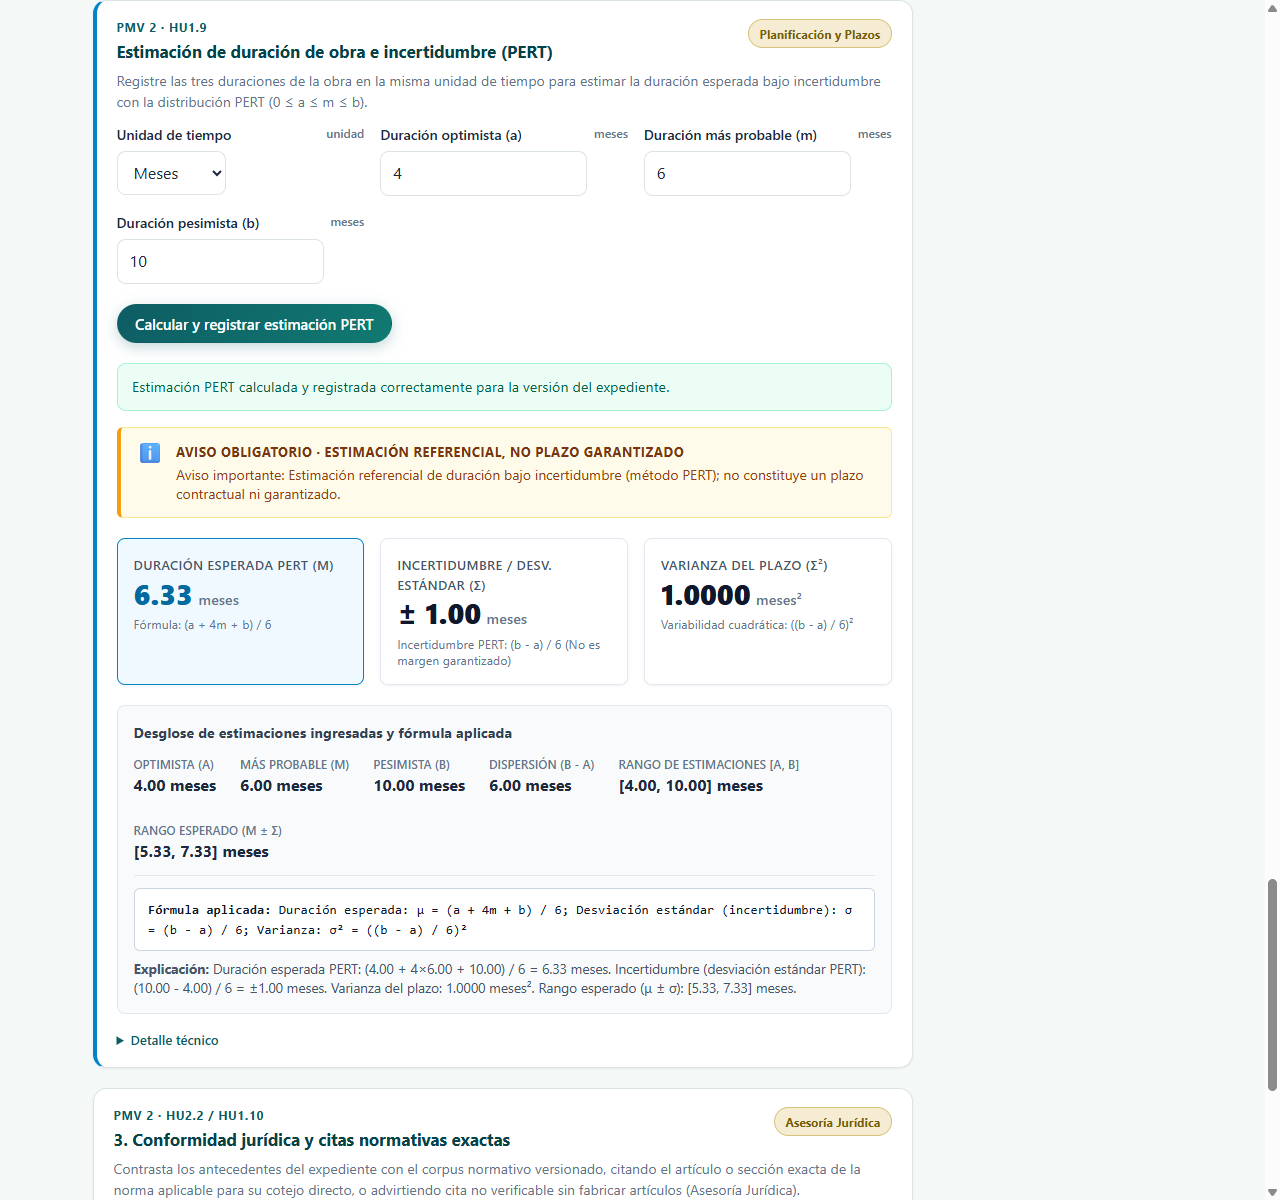
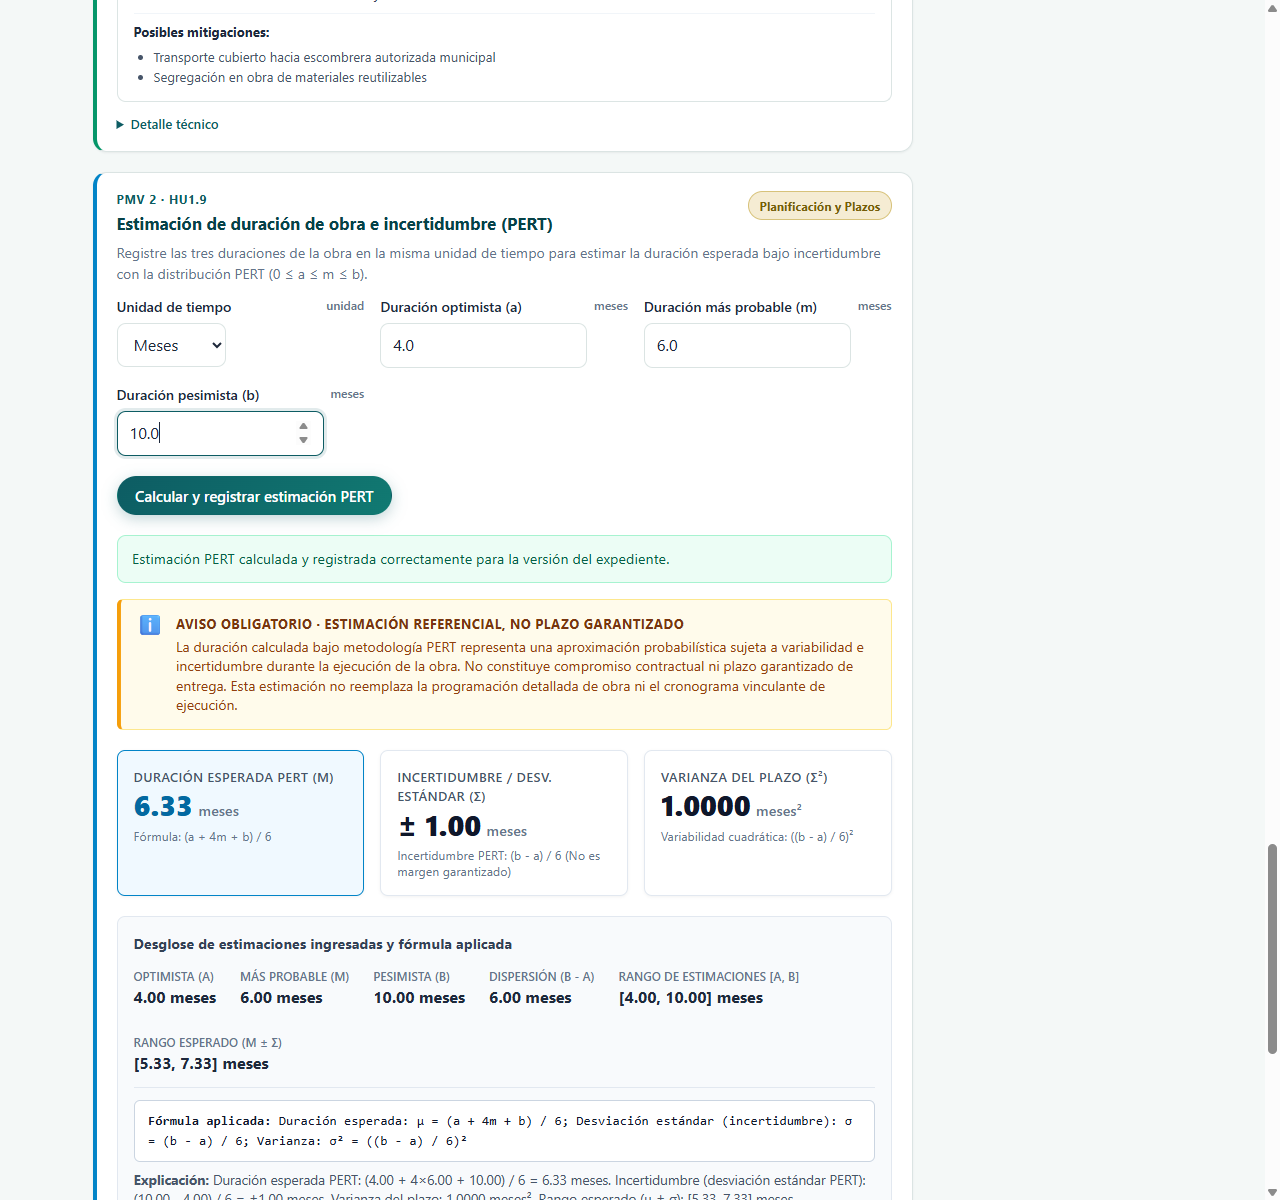
fix(plazos): validar pertenencia de version y ocultar resultados al editar en HU1.9

diff --git a/frontend/src/features/proyecto/ProyectoDetallePage.tsx b/frontend/src/features/proyecto/ProyectoDetallePage.tsx
@@ -1297,7 +1297,12 @@ export function ProyectoDetallePage() {
                       id="pert-unit"
                       className="form-field-input"
                       value={pertTimeUnit}
-                      onChange={(e) => setPertTimeUnit(e.target.value)}
+                      onChange={(e) => {
+                      setPertTimeUnit(e.target.value)
+                      setPertEstimate(null)
+                      setPertSuccess(null)
+                      setPertError(null)
+                    }}
                     >
                       <option value="meses">Meses</option>
                       <option value="días">Días</option>
@@ -1320,7 +1325,9 @@ export function ProyectoDetallePage() {
                       value={pertInputA}
                       onChange={(e) => {
                         setPertInputA(e.target.value)
+                        setPertEstimate(null)
                         setPertSuccess(null)
+                        setPertError(null)
                       }}
                     />
                   </div>
@@ -1340,7 +1347,9 @@ export function ProyectoDetallePage() {
                       value={pertInputM}
                       onChange={(e) => {
                         setPertInputM(e.target.value)
+                        setPertEstimate(null)
                         setPertSuccess(null)
+                        setPertError(null)
                       }}
                     />
                   </div>
@@ -1360,7 +1369,9 @@ export function ProyectoDetallePage() {
                       value={pertInputB}
                       onChange={(e) => {
                         setPertInputB(e.target.value)
+                        setPertEstimate(null)
                         setPertSuccess(null)
+                        setPertError(null)
                       }}
                     />
                   </div>
@@ -1407,7 +1418,11 @@ export function ProyectoDetallePage() {
               </div>
             )}
 
-            {pertSuccess && <Alert variant="success">{pertSuccess}</Alert>}
+            {pertSuccess && (
+              <div className="pert-success-alert">
+                <Alert variant="success">{pertSuccess}</Alert>
+              </div>
+            )}
 
             {pertEstimate && !pertError && (
               <div className="pert-result-container">

diff --git a/backend/tests/test_pert_duration_service.py b/backend/tests/test_pert_duration_service.py
@@ -10,6 +10,7 @@ from backend.application.services.pmv1_services import (
     PlatformService,
 )
 from backend.domain.exceptions.pmv1_exceptions import (
+    VersionNoPertenecienteError,
     EstimacionPERTInvalidaError,
     RecursoPMV1NoEncontradoError,
 )
@@ -294,3 +295,126 @@ def test_pert_invalid_submission_does_not_return_valid_previous():
                 "time_unit": "meses",
             },
         )
+
+# 10. Rechazo estricto de versión ajena sin mutar ninguno de los expedientes
+def test_pert_alien_version_rejected_without_modifications():
+    """Comprueba que pasar un project_version_id que pertenece a otro proyecto
+    es rechazado con VersionNoPertenecienteError, y ninguna tabla/estimación de
+    ninguno de los dos proyectos es insertada ni modificada."""
+    db_url = get_test_db_url()
+    service = get_test_platform_service()
+
+    proj1_id = uuid4()
+    v1_id = uuid4()
+    proj2_id = uuid4()
+    v2_id = uuid4()
+
+    with psycopg.connect(db_url, row_factory=dict_row) as conn:
+        # Proyecto 1 y versión 1
+        conn.execute(
+            """INSERT INTO projects (id, code, created_by_user_id, status)
+            VALUES (%s, %s, %s, 'ready')""",
+            (proj1_id, f"PRY-P1-{uuid4().hex[:6]}", PLANNER_ID),
+        )
+        conn.execute(
+            """INSERT INTO project_versions (id, project_id, version_number, title,
+            description, location_description, proposed_land_use, estimated_budget_pen,
+            beneficiaries_count, created_by_user_id)
+            VALUES (%s, %s, 1, 'Proyecto 1 v1', 'Desc 1', 'El Tambo', 'recreacion', 100000, 500, %s)""",
+            (v1_id, proj1_id, PLANNER_ID),
+        )
+
+        # Proyecto 2 y versión 2
+        conn.execute(
+            """INSERT INTO projects (id, code, created_by_user_id, status)
+            VALUES (%s, %s, %s, 'ready')""",
+            (proj2_id, f"PRY-P2-{uuid4().hex[:6]}", PLANNER_ID),
+        )
+        conn.execute(
+            """INSERT INTO project_versions (id, project_id, version_number, title,
+            description, location_description, proposed_land_use, estimated_budget_pen,
+            beneficiaries_count, created_by_user_id)
+            VALUES (%s, %s, 1, 'Proyecto 2 v2', 'Desc 2', 'El Tambo', 'recreacion', 200000, 800, %s)""",
+            (v2_id, proj2_id, PLANNER_ID),
+        )
+
+    # Registrar estimación legítima en Proyecto 1: a=4, m=6, b=10 (μ=6.3333)
+    reg_p1 = service.register_pert_estimate(
+        project_id=proj1_id,
+        actor_id=PLANNER_ID,
+        data={
+            "project_version_id": v1_id,
+            "optimistic_duration": "4.0",
+            "most_likely_duration": "6.0",
+            "pessimistic_duration": "10.0",
+            "time_unit": "meses",
+        },
+    )
+    assert float(reg_p1["expected_duration"]) == pytest.approx(6.3333, abs=0.001)
+
+    # Registrar estimación legítima en Proyecto 2: a=5, m=10, b=15 (μ=10.0)
+    reg_p2 = service.register_pert_estimate(
+        project_id=proj2_id,
+        actor_id=PLANNER_ID,
+        data={
+            "project_version_id": v2_id,
+            "optimistic_duration": "5.0",
+            "most_likely_duration": "10.0",
+            "pessimistic_duration": "15.0",
+            "time_unit": "meses",
+        },
+    )
+    assert float(reg_p2["expected_duration"]) == 10.0
+
+    # INTENTO FRAUDULENTO: Registrar en Proyecto 1 pero pasando la versión 2 (de Proyecto 2)
+    with pytest.raises(VersionNoPertenecienteError) as exc_info:
+        service.register_pert_estimate(
+            project_id=proj1_id,
+            actor_id=PLANNER_ID,
+            data={
+                "project_version_id": v2_id,  # Pertenece a Proyecto 2!
+                "optimistic_duration": "1.0",
+                "most_likely_duration": "2.0",
+                "pessimistic_duration": "3.0",
+                "time_unit": "meses",
+            },
+        )
+    assert str(v2_id) in str(exc_info.value)
+    assert str(proj1_id) in str(exc_info.value)
+
+    # COMPROBAR AUSENCIA DE CAMBIOS:
+    # 1. Proyecto 1 sigue teniendo exactamente su estimación v1 intacta
+    check_p1 = service.get_pert_estimate(proj1_id, project_version_id=v1_id)
+    assert check_p1 is not None
+    assert float(check_p1["expected_duration"]) == pytest.approx(6.3333, abs=0.001)
+    assert float(check_p1["optimistic_duration"]) == 4.0
+
+    # 2. Proyecto 2 sigue teniendo exactamente su estimación v2 intacta (no fue sobreescrita ni alterada)
+    check_p2 = service.get_pert_estimate(proj2_id, project_version_id=v2_id)
+    assert check_p2 is not None
+    assert float(check_p2["expected_duration"]) == 10.0
+    assert float(check_p2["optimistic_duration"]) == 5.0
+
+    # 3. No existe ninguna estimación huérfana o cruzada en la base de datos
+    with psycopg.connect(db_url, row_factory=dict_row) as conn:
+        rows = conn.execute(
+            """SELECT project_id, project_version_id, expected_duration
+            FROM project_pert_estimates
+            WHERE project_id IN (%s, %s)""",
+            (proj1_id, proj2_id),
+        ).fetchall()
+        assert len(rows) == 2
+        for r in rows:
+            if r["project_id"] == proj1_id:
+                assert r["project_version_id"] == v1_id
+            elif r["project_id"] == proj2_id:
+                assert r["project_version_id"] == v2_id
+
+
+# 11. get_pert_estimate con versión ajena es rechazado
+def test_pert_get_alien_version_rejected():
+    service = get_test_platform_service()
+    alien_version = uuid4()
+    with pytest.raises(VersionNoPertenecienteError) as exc_info:
+        service.get_pert_estimate(PROJECT_A_ID, project_version_id=alien_version)
+    assert str(alien_version) in str(exc_info.value)

diff --git a/backend/tests/test_pmv1_official_api.py b/backend/tests/test_pmv1_official_api.py
@@ -809,6 +809,13 @@ class FakePlatform:
     def get_pert_estimate(
         self, project_id: UUID, project_version_id: UUID | None = None
     ) -> dict[str, Any] | None:
+        if project_version_id and str(project_version_id) != str(VERSION_ID):
+            from backend.domain.exceptions.pmv1_exceptions import VersionNoPertenecienteError
+            raise VersionNoPertenecienteError(
+                f"La versión {project_version_id} no pertenece al expediente {project_id}.",
+                project_id=str(project_id),
+                version_id=str(project_version_id),
+            )
         if str(project_id).endswith("b"):
             return None
         return {
@@ -835,6 +842,14 @@ class FakePlatform:
     def register_pert_estimate(
         self, project_id: UUID, actor_id: UUID, data: Any
     ) -> dict[str, Any]:
+        req_ver = getattr(data, "project_version_id", None) if not isinstance(data, dict) else data.get("project_version_id")
+        if req_ver and str(req_ver) != str(VERSION_ID):
+            from backend.domain.exceptions.pmv1_exceptions import VersionNoPertenecienteError
+            raise VersionNoPertenecienteError(
+                f"La versión {req_ver} no pertenece al expediente {project_id}.",
+                project_id=str(project_id),
+                version_id=str(req_ver),
+            )
         opt = data.optimistic_duration if hasattr(data, "optimistic_duration") else data["optimistic_duration"]
         ml = data.most_likely_duration if hasattr(data, "most_likely_duration") else data["most_likely_duration"]
         pess = data.pessimistic_duration if hasattr(data, "pessimistic_duration") else data["pessimistic_duration"]
@@ -1759,3 +1774,23 @@ def test_pert_estimate_api_forbidden_without_auth(client: TestClient):
         json={"optimistic_duration": "3.0", "most_likely_duration": "5.0", "pessimistic_duration": "8.0"},
     )
     assert resp.status_code == 401
+
+def test_pert_estimate_api_alien_version_rejected_400(client: TestClient):
+    """Rechazo HTTP 400 cuando se envía un project_version_id que no pertenece al proyecto."""
+    headers = {"Authorization": "Bearer token-prueba"}
+    alien_version = uuid4()
+    resp = client.post(
+        f"/api/v1/projects/{PROJECT_ID}/pert-estimate",
+        headers=headers,
+        json={
+            "project_version_id": str(alien_version),
+            "optimistic_duration": "4.0",
+            "most_likely_duration": "6.0",
+            "pessimistic_duration": "10.0",
+            "time_unit": "meses",
+        },
+    )
+    assert resp.status_code == 400
+    data = resp.json()
+    assert "no pertenece al expediente" in data["detail"]
+    assert data["field"] == "project_version_id"

diff --git a/backend/application/services/pmv1_services.py b/backend/application/services/pmv1_services.py
@@ -21,6 +21,7 @@ from psycopg.types.json import Jsonb
 
 from backend.application.dto.pmv1_dto import PMV1ProjectCreate, PertEstimateCreate
 from backend.domain.exceptions.pmv1_exceptions import (
+    VersionNoPertenecienteError,
     ConfiguracionPMV1Error,
     CredencialesInvalidasError,
     EstimacionPERTInvalidaError,
@@ -1043,9 +1044,27 @@ class PlatformService:
     ) -> dict[str, Any] | None:
         """Recupera la estimación de duración PERT para la versión del expediente (HU1.9)."""
         project = self.get_project(project_id)
-        target_version_id = project_version_id or project["project_version_id"]
+        target_version_id = UUID(str(project_version_id)) if project_version_id else project["project_version_id"]
         with psycopg.connect(self.db_url, row_factory=dict_row) as conn:
+            if project_version_id is not None:
+                self._verify_version_belongs_to_project(conn, project_id, target_version_id)
             return self._get_pert_estimate_with_conn(conn, target_version_id)
+
+    def _verify_version_belongs_to_project(
+        self, conn: psycopg.Connection[Any], project_id: UUID, version_id: UUID
+    ) -> None:
+        """Comprueba que project_version_id pertenece a project_id. Lanza VersionNoPertenecienteError si no."""
+        row = conn.execute(
+            "SELECT 1 FROM project_versions WHERE id = %s AND project_id = %s",
+            (version_id, project_id),
+        ).fetchone()
+        if not row:
+            raise VersionNoPertenecienteError(
+                f"La versión {version_id} no pertenece al expediente {project_id}. "
+                "Operación rechazada sin modificar ninguna estimación.",
+                project_id=str(project_id),
+                version_id=str(version_id),
+            )
 
     def register_pert_estimate(
         self,
@@ -1068,7 +1087,7 @@ class PlatformService:
             pess = data.pessimistic_duration
             t_unit = data.time_unit
 
-        version_id = req_version_id or project["project_version_id"]
+        version_id = UUID(str(req_version_id)) if req_version_id else project["project_version_id"]
 
         a, m, b, unit = PertDurationEngine.validate_inputs(
             optimistic=opt,
@@ -1086,6 +1105,7 @@ class PlatformService:
 
         estimate_id = uuid4()
         with psycopg.connect(self.db_url, row_factory=dict_row) as conn, conn.transaction():
+            self._verify_version_belongs_to_project(conn, project_id, version_id)
             row = conn.execute(
                 """
                 INSERT INTO project_pert_estimates

diff --git a/backend/main.py b/backend/main.py
@@ -3,6 +3,7 @@ from fastapi.middleware.cors import CORSMiddleware
 from fastapi.responses import JSONResponse
 
 from backend.domain.exceptions.pmv1_exceptions import (
+    VersionNoPertenecienteError,
     AccesoDenegadoError,
     ConfiguracionPMV1Error,
     CredencialesInvalidasError,
@@ -127,6 +128,22 @@ def create_app() -> FastAPI:
                 "detail": str(exc),
                 "field": exc.campo,
                 "reason": exc.motivo,
+            },
+        )
+
+    
+    @application.exception_handler(VersionNoPertenecienteError)
+    async def version_no_perteneciente_handler(
+        request: Request, exc: VersionNoPertenecienteError
+    ) -> JSONResponse:
+        return JSONResponse(
+            status_code=400,
+            content={
+                "detail": str(exc),
+                "field": "project_version_id",
+                "reason": "La versión indicada no pertenece al expediente especificado.",
+                "project_id": exc.project_id,
+                "version_id": exc.version_id,
             },
         )
 

diff --git a/backend/domain/exceptions/pmv1_exceptions.py b/backend/domain/exceptions/pmv1_exceptions.py
@@ -39,3 +39,16 @@ class EstimacionPERTInvalidaError(Exception):
         self.motivo = motivo
         super().__init__(mensaje)
 
+
+class VersionNoPertenecienteError(Exception):
+    """Error cuando el project_version_id proporcionado no pertenece al project_id de la URL."""
+
+    def __init__(
+        self,
+        mensaje: str,
+        project_id: str | None = None,
+        version_id: str | None = None,
+    ) -> None:
+        self.project_id = project_id
+        self.version_id = version_id
+        super().__init__(mensaje)

diff --git a/database/README.md b/database/README.md
@@ -193,6 +193,7 @@ Las migraciones DDL (`03_migration_hu1.4.sql` y `03_migration_hu1.6.sql`) contie
   - `uq_pert_project_version`: Restricción `UNIQUE (project_version_id)` que garantiza estricto aislamiento por versión. Una versión nueva no hereda ni sobreescribe estimaciones de versiones anteriores.
   - `chk_pert_order`: Restricción `CHECK (optimistic_duration <= most_likely_duration AND most_likely_duration <= pessimistic_duration)` que impide registrar datos que violen la jerarquía PERT $0 \le a \le m \le b$.
   - `chk_pert_non_negative`: Restricción `CHECK (optimistic_duration >= 0 AND most_likely_duration >= 0 AND pessimistic_duration >= 0)` que impide valores negativos.
+  - `fk_pert_project_version_pair`: Clave foránea compuesta `FOREIGN KEY (project_id, project_version_id) REFERENCES project_versions(project_id, id) ON DELETE CASCADE` con `UNIQUE (project_id, id)` en `project_versions`, que refuerza a nivel de base de datos la pertenencia obligatoria de la versión al expediente, impidiendo almacenar estimaciones asociadas a versiones ajenas.
 - Vista en español:
   - `vista_estimaciones_pert`: Integra código y versión del expediente, unidad temporal, valores ingresados, duración esperada, incertidumbre, varianza e intervalo de referencia.
 - Criterios de aceptación cumplidos:
